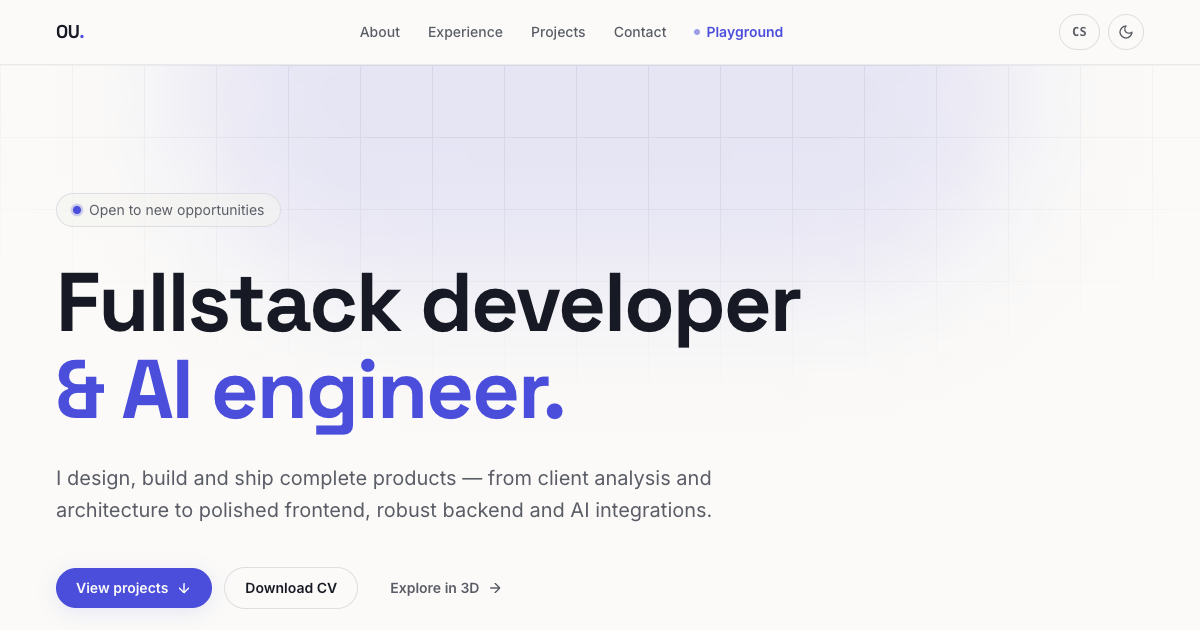
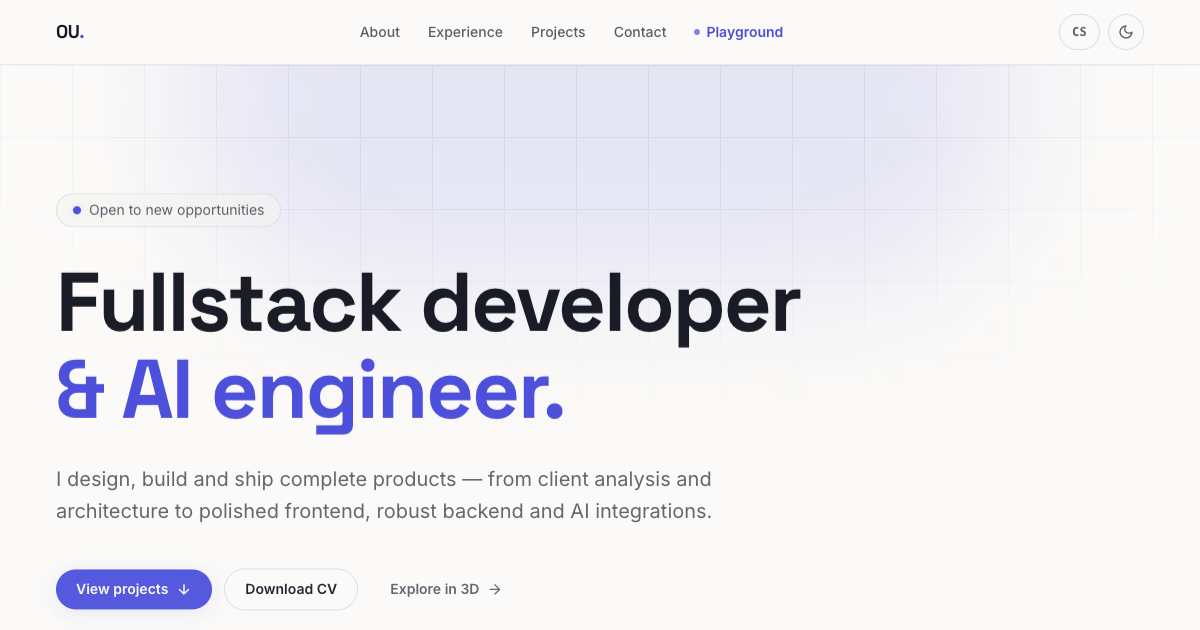
Add agent-audit case study, fix GitHub handle to ondraulehla
- New featured case study (EN+CS) for the open-source agent-audit CLI,
  linked to the real repository; placeholder repo links removed from
  the other studies until their repos exist
- site.ts now points at the real GitHub account
- Regenerated CV PDFs and OG images

diff --git a/src/data/site.ts b/src/data/site.ts
@@ -3,7 +3,7 @@ export const site = {
   name: 'Ondřej Úlehla',
   email: '[email redacted]',
   domain: 'https://ondrejulehla.dev',
-  github: 'https://github.com/ondrejulehla',
+  github: 'https://github.com/ondraulehla',
   linkedin: 'https://www.linkedin.com/in/ondrej-ulehla',
   location: { en: 'Prague, Czech Republic', cs: 'Praha, Česká republika' },
 } as const;